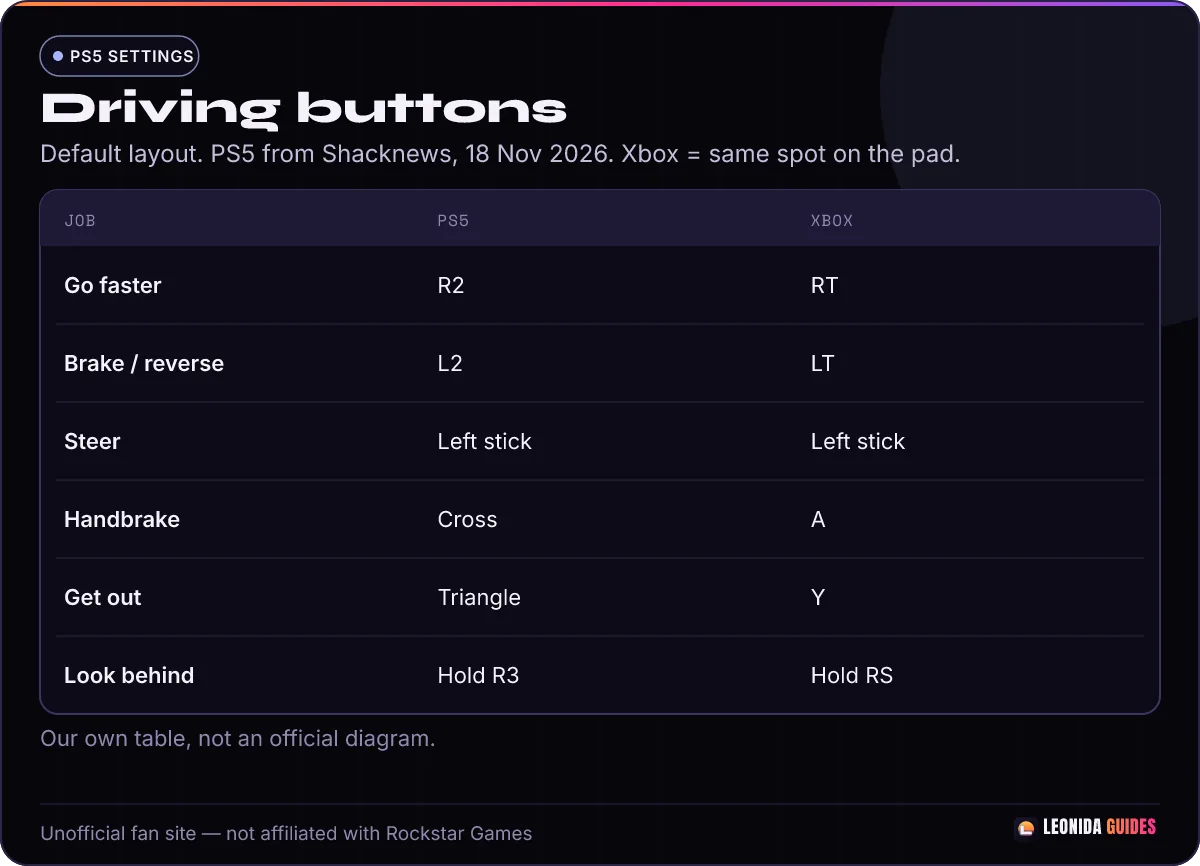
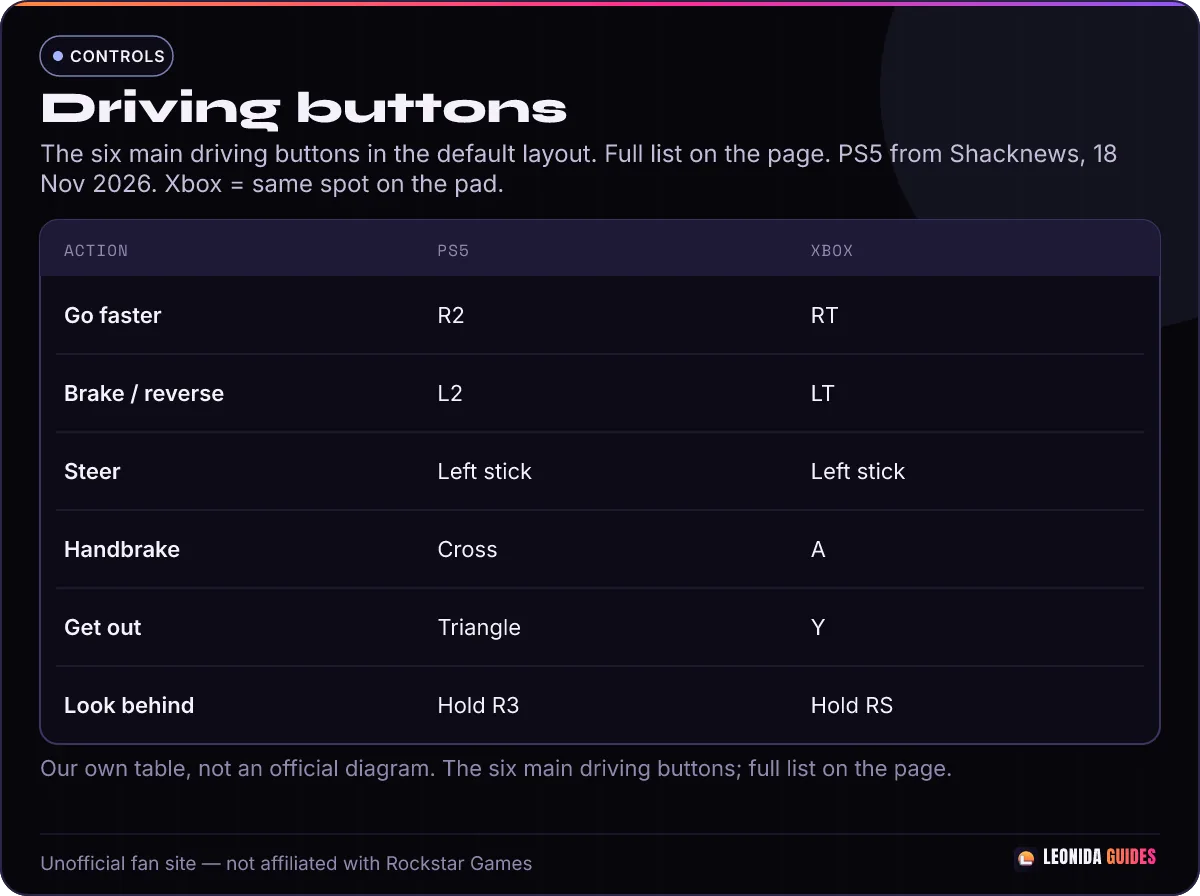
content: auto-publish 2026-11-24T09:01:30.465Z

diff --git a/content/gta-6-controls.md b/content/gta-6-controls.md
@@ -15,6 +15,9 @@ sources:
   - https://www.gamespot.com/articles/gta-6-all-the-secret-controls-and-gameplay-features-you-might-have-missed/
   - https://www.gamespot.com/articles/how-to-listen-to-music-and-podcasts-on-your-phone-in-gta-6/
   - https://www.gamespot.com/articles/how-to-play-golf-and-mini-golf-in-gta-6/
+  - https://www.gamespot.com/articles/gta-6-tips-everything-i-wish-i-knew-before-i-started-playing/
+  - https://www.engadget.com/2323542/change-these-settings-if-you-want-gta-6-to-feel-like-old-gta/
+  - https://www.gamesradar.com/games/grand-theft-auto/gta-6-classic-controls/
   - https://gameinformer.com/2026/11/10/grand-theft-auto-vi-will-run-at-30-fps-on-all-consoles-but-ps5-pro-will-feature-improved
   - https://x.com/IGN/status/2122811762194199016
 updated: 2026-11-24
@@ -45,7 +48,7 @@ qa: live-review
 5. Press **Triangle** (Xbox: **Y**) to get out. Double-tap it if you want the engine to stay on (see hidden shortcuts).
 
 ![Driving buttons table](TODO: image:gta-6-controls-step-1 — table, our own art: driving jobs with PS5 and Xbox buttons)
-*Caption: Table. The driving buttons in the default layout.*
+*Caption: Table. The six main driving buttons (full list below).*
 
 | Job in a car or boat | PS5 | Xbox (same spot) |
 |---|---|---|
@@ -78,7 +81,7 @@ qa: live-review
 5. Press **R1** (Xbox: **RB**) to hide behind cover.
 
 ![On-foot buttons table](TODO: image:gta-6-controls-step-2 — table, our own art: on-foot jobs with PS5 and Xbox buttons)
-*Caption: Table. Run, jump, crouch, cover, aim and shoot.*
+*Caption: Table. The six main on-foot buttons: run, jump, crouch, cover, aim and shoot (full list below).*
 
 | Job on foot | PS5 | Xbox (same spot) |
 |---|---|---|
@@ -99,9 +102,11 @@ qa: live-review
 | Pause | Options | Menu |
 | Look behind | Hold R3 | Hold RS |
 
+The pause button is **Options** on PS5 and **Menu** on Xbox ([GamesRadar+](https://www.gamesradar.com/games/grand-theft-auto/gta-6-classic-controls/), [Engadget](https://www.engadget.com/2323542/change-these-settings-if-you-want-gta-6-to-feel-like-old-gta/)). [Shacknews](https://www.shacknews.com/article/151396/gta6-ps5-controls) lists this button as Select.
+
 ## Fighting and aiming
 
-- **Aiming:** Hold **L2** (LT) to aim. Hold **R1** (RB) to throw quickly. Press **Triangle** (Y) to swap weapons fast. Hold **D-pad left** to look over your other shoulder. While aiming, press **R3** (RS) to use a scope or tighten your shot (Shacknews, PC Gamer). Tap **Cross** (A) while aiming to roll (GameSpot).
+- **Aiming:** Hold **L2** (LT) to aim. Hold **R1** (RB) to throw quickly. Press **Triangle** (Y) to swap weapons fast. To look over your other shoulder, Shacknews and GameSpot say **hold D-pad left**; PC Gamer says **press** it. While aiming, press **R3** (RS) to use a scope or tighten your shot (Shacknews, PC Gamer). Tap **Cross** (A) while aiming to roll (GameSpot).
 - **Fist fights:** **Square** (X) punches or kicks, **Cross** (A) blocks or dodges, **R2** (RT) grabs, and holding **L2** (LT) locks on.
 
 ## Hidden shortcuts (default layout)
@@ -112,7 +117,7 @@ These only match the **default** controller layout. If you switched to Classic o
 |---|---|---|
 | Get out and leave the engine on | Double-tap **Triangle** / **Y**. On a boat, the boat keeps moving so you can walk the deck. | PC Gamer, GameSpot |
 | Lean on a wall | Stand next to it and hold **Circle** / **B** | GameSpot |
-| Rest on a railing | Stand next to it and press **L3** / **LS** | GameSpot |
+| Rest on a railing | GameSpot says press **L3** / **LS**. PC Gamer says hold **Circle** / **B** near a rail to lean. | GameSpot, PC Gamer |
 | Sit at a pool or dock | Stand at the edge and hold **Circle** / **B** | PC Gamer |
 | Swing the car door into someone | While driving, press **Square** / **X**. On a bike, the same button kicks. | PC Gamer, GameSpot |
 | Headlights on or off | Press **Circle** / **B** | Shacknews, PC Gamer, GameSpot |
@@ -121,7 +126,7 @@ These only match the **default** controller layout. If you switched to Classic o
 | Push a car or boat | Walk into the front, back or side with the left stick until the push starts. GameSpot says hold **Square** / **X** to shove, or to flip it if it is on its side or roof. PC Gamer describes holding **L3** / **LS** to shove. | GameSpot, PC Gamer |
 | Shout at a nearby driver | Pull up beside them, hold **L2** / **LT** to aim at them, then press **R3** / **RS**. (A short press of R3 is also listed by PC Gamer.) | GameSpot, PC Gamer |
 | Look through your character's eyes | Stand still, hold **L2** / **LT**, then press **R3** / **RS**. You can look around, but walking turns it off. | PC Gamer, GameSpot |
-| Let the car drive itself | While driving, hold **D-pad down**, press **Options** (Xbox: **Menu**) for cinematic view, then hold **Circle** / **B**. GameSpot says you can also set the speed to slow, normal or fast. | GameSpot |
+| Let the car drive itself | While driving, hold **D-pad down**, press **Options** (Xbox: **Menu**) for cinematic view, then hold **Circle** / **B**. GameSpot says you can also set the speed to slow, normal or fast, and GameSpot calls that cinematic-view button Start. | GameSpot |
 | Change how a cap is worn | Hold **L1** / **LB** for the item wheel, open Items, pick the cap, then press **Cross** / **A** to change the style. | GameSpot |
 | Move an item to the other hand | Press **D-pad left** or **right**. GameSpot says you can also hold something in each hand. | GameSpot |
 | Flip someone off | Hold **L2** / **LT**, then press **R1** / **RB**. This also works while driving. | PC Gamer, GameSpot |
@@ -139,7 +144,7 @@ A few more notes that come up often:
 
 Shacknews says Focus helps in gunfights, slows time while driving, spots fish and animals, and shows targets through walls. You can use it for some things right away. Focus for gunfights unlocks a little way into the story. How long it lasts grows as you level up Focus.
 
-To grow the bar, GameSpot points to calm activities such as **fishing** and **pool**, and its golf guide says a round of **golf** also raises Focus. Food and drinks that show the Focus icon can help in the moment (Shacknews). We have not seen a major outlet confirm a specific drink, so look for that icon rather than guessing. More detail is on our [Health, Stamina and Focus guide](/beginner-tips/gta-6-health-stamina-focus/).
+To grow the bar, [GameSpot's tips article](https://www.gamespot.com/articles/gta-6-tips-everything-i-wish-i-knew-before-i-started-playing/) (20 Nov 2026) points to calm activities such as **fishing** and **pool**, and its golf guide says a round of **golf** also raises Focus. That tips article also says the Focus you gain stays with you. Food and drinks that show the Focus icon can help in the moment (Shacknews). We have not seen a major outlet confirm a specific drink, so look for that icon rather than guessing. More detail is on our [Health, Stamina and Focus guide](/beginner-tips/gta-6-health-stamina-focus/).
 
 ## Other default buttons
 
@@ -154,22 +159,33 @@ All four rows are from the Shacknews default layout.
 
 ## How to switch to the Classic layout
 
-1. Press the **Options** button (Xbox: **Menu**) to pause.
-2. Go to **Settings**, then **Controls**.
-3. Pick **Classic** for the older GTA button style, or **Left-Handed** to swap sides.
+1. Press **Options** (Xbox: **Menu**) to pause.
+2. Open **Settings**.
+3. Open the first tab, **Control Scheme**.
+4. Change **Default** to **Classic** (or **Left-Handed**).
+5. Back out of the menu to save.
 
-The three layout names are from Shacknews. The exact menu path is our best guess and will be checked in game.
+This path is from [Engadget](https://www.engadget.com/2323542/change-these-settings-if-you-want-gta-6-to-feel-like-old-gta/) (20 Nov 2026) and [GamesRadar+](https://www.gamesradar.com/games/grand-theft-auto/gta-6-classic-controls/) (19 Nov 2026). The three layout names are also listed by Shacknews.
+
+### What Classic changes
+
+In Classic, these four buttons move. Everything else stays the same (GamesRadar+; Engadget lists run, jump and crouch).
+
+| Job | PS5 | Xbox |
+|---|---|---|
+| Run | Cross | A |
+| Jump or climb | Square | X |
+| Melee | Circle | B |
+| Crouch | L3 | LS |
 
 ![Controls layout menu illustration](TODO: image:gta-6-controls-step-3 — menu screen, our own mock-up: Default, Classic and Left-Handed layouts)
-*Caption: Menu screen. Three layouts: Default, Classic and Left-Handed.*
+*Caption: Menu screen. Control Scheme tab with three layouts: Default, Classic and Left-Handed.*
 
 ## Controller vibration on PS5
 
 On PS5 and PS5 Pro, the DualSense has detailed vibration (*haptic feedback*). You can change it in the accessibility settings (Rockstar, via Game Informer).
 
-## What players are saying
-
-*Public posts, quoted with a link. Player tips are not confirmed facts.*
+**IGN video (17 Nov 2026, before launch)**
 
 <blockquote class="twitter-tweet"><a href="https://x.com/IGN/status/2122811762194199016"></a></blockquote>
 
@@ -182,16 +198,16 @@ Click the left stick: **L3** on PS5, **LS** on Xbox, in the default layout. Pick
 **Cross** on PS5, **A** on Xbox.
 
 ### How do I leave the engine running in GTA 6?
-Double-tap **Triangle** (Xbox: **Y**) as you get out. A single press gets you out and turns the engine off. This uses the default layout (PC Gamer, GameSpot).
+Double-tap **Triangle** (Xbox: **Y**) as you get out. A single press just gets you out (GameSpot says a single press also leaves the door open). This uses the default layout (PC Gamer, GameSpot).
 
 ### How do I use Focus in GTA 6?
 Click **both sticks** at the same time.
 
 ### How do I turn on auto-drive in GTA 6?
-Hold **D-pad down**, press **Options** (Xbox: **Menu**) for cinematic view, then hold **Circle** (Xbox: **B**). GameSpot also lets you set the speed. Default layout only.
+Hold **D-pad down**, press **Options** (Xbox: **Menu**) for cinematic view, then hold **Circle** (Xbox: **B**). GameSpot also lets you set the speed, and GameSpot calls that cinematic-view button Start. Default layout only.
 
 ### Can I change the controls?
-Yes. You can pick Default, Classic or Left-Handed. Full button remapping is not confirmed yet.
+Yes. There are three presets: Default, Classic and Left-Handed. [Engadget](https://www.engadget.com/2323542/change-these-settings-if-you-want-gta-6-to-feel-like-old-gta/) says there is no full button remapping.
 
 ## Sources
 
@@ -201,6 +217,9 @@ Yes. You can pick Default, Classic or Left-Handed. Full button remapping is not 
 - [GameSpot: secret controls and features](https://www.gamespot.com/articles/gta-6-all-the-secret-controls-and-gameplay-features-you-might-have-missed/) (23 Nov 2026)
 - [GameSpot: music and podcasts on your phone](https://www.gamespot.com/articles/how-to-listen-to-music-and-podcasts-on-your-phone-in-gta-6/) (18 Nov 2026)
 - [GameSpot: how to play golf](https://www.gamespot.com/articles/how-to-play-golf-and-mini-golf-in-gta-6/) (20 Nov 2026)
+- [GameSpot: tips I wish I knew](https://www.gamespot.com/articles/gta-6-tips-everything-i-wish-i-knew-before-i-started-playing/) (20 Nov 2026)
+- [Engadget: change these settings if you want GTA 6 to feel like old GTA](https://www.engadget.com/2323542/change-these-settings-if-you-want-gta-6-to-feel-like-old-gta/) (20 Nov 2026)
+- [GamesRadar+: GTA 6 classic controls](https://www.gamesradar.com/games/grand-theft-auto/gta-6-classic-controls/) (19 Nov 2026)
 - [Game Informer: haptics on PS5](https://gameinformer.com/2026/11/10/grand-theft-auto-vi-will-run-at-30-fps-on-all-consoles-but-ps5-pro-will-feature-improved)
 
 ## Updated
@@ -210,6 +229,7 @@ Yes. You can pick Default, Classic or Left-Handed. Full button remapping is not 
 | 2026-11-18 | Held stub created. Confirmed haptics facts only. |
 | 2026-11-18 | Filled in the full default layout, driving help, Focus and layout options from Shacknews. |
 | 2026-11-24 | Added hidden shortcuts from PC Gamer and GameSpot, the remaining default buttons, and published after QA. |
+| 2026-11-24 | After QA: sourced the Classic path, added what Classic changes, stated source disagreements, fixed image labels, and moved the IGN video. |
 
 ---
 *Unofficial fan site, not affiliated with Rockstar Games or Take-Two.*

diff --git a/site-images/_slots-report.md b/site-images/_slots-report.md
@@ -2,7 +2,7 @@
 
 - content slots: 249
 - specs: 249
-- rendered this run: 9
+- rendered this run: 3
 - no-spec: 0
 - errors: 0
 - missing: none
